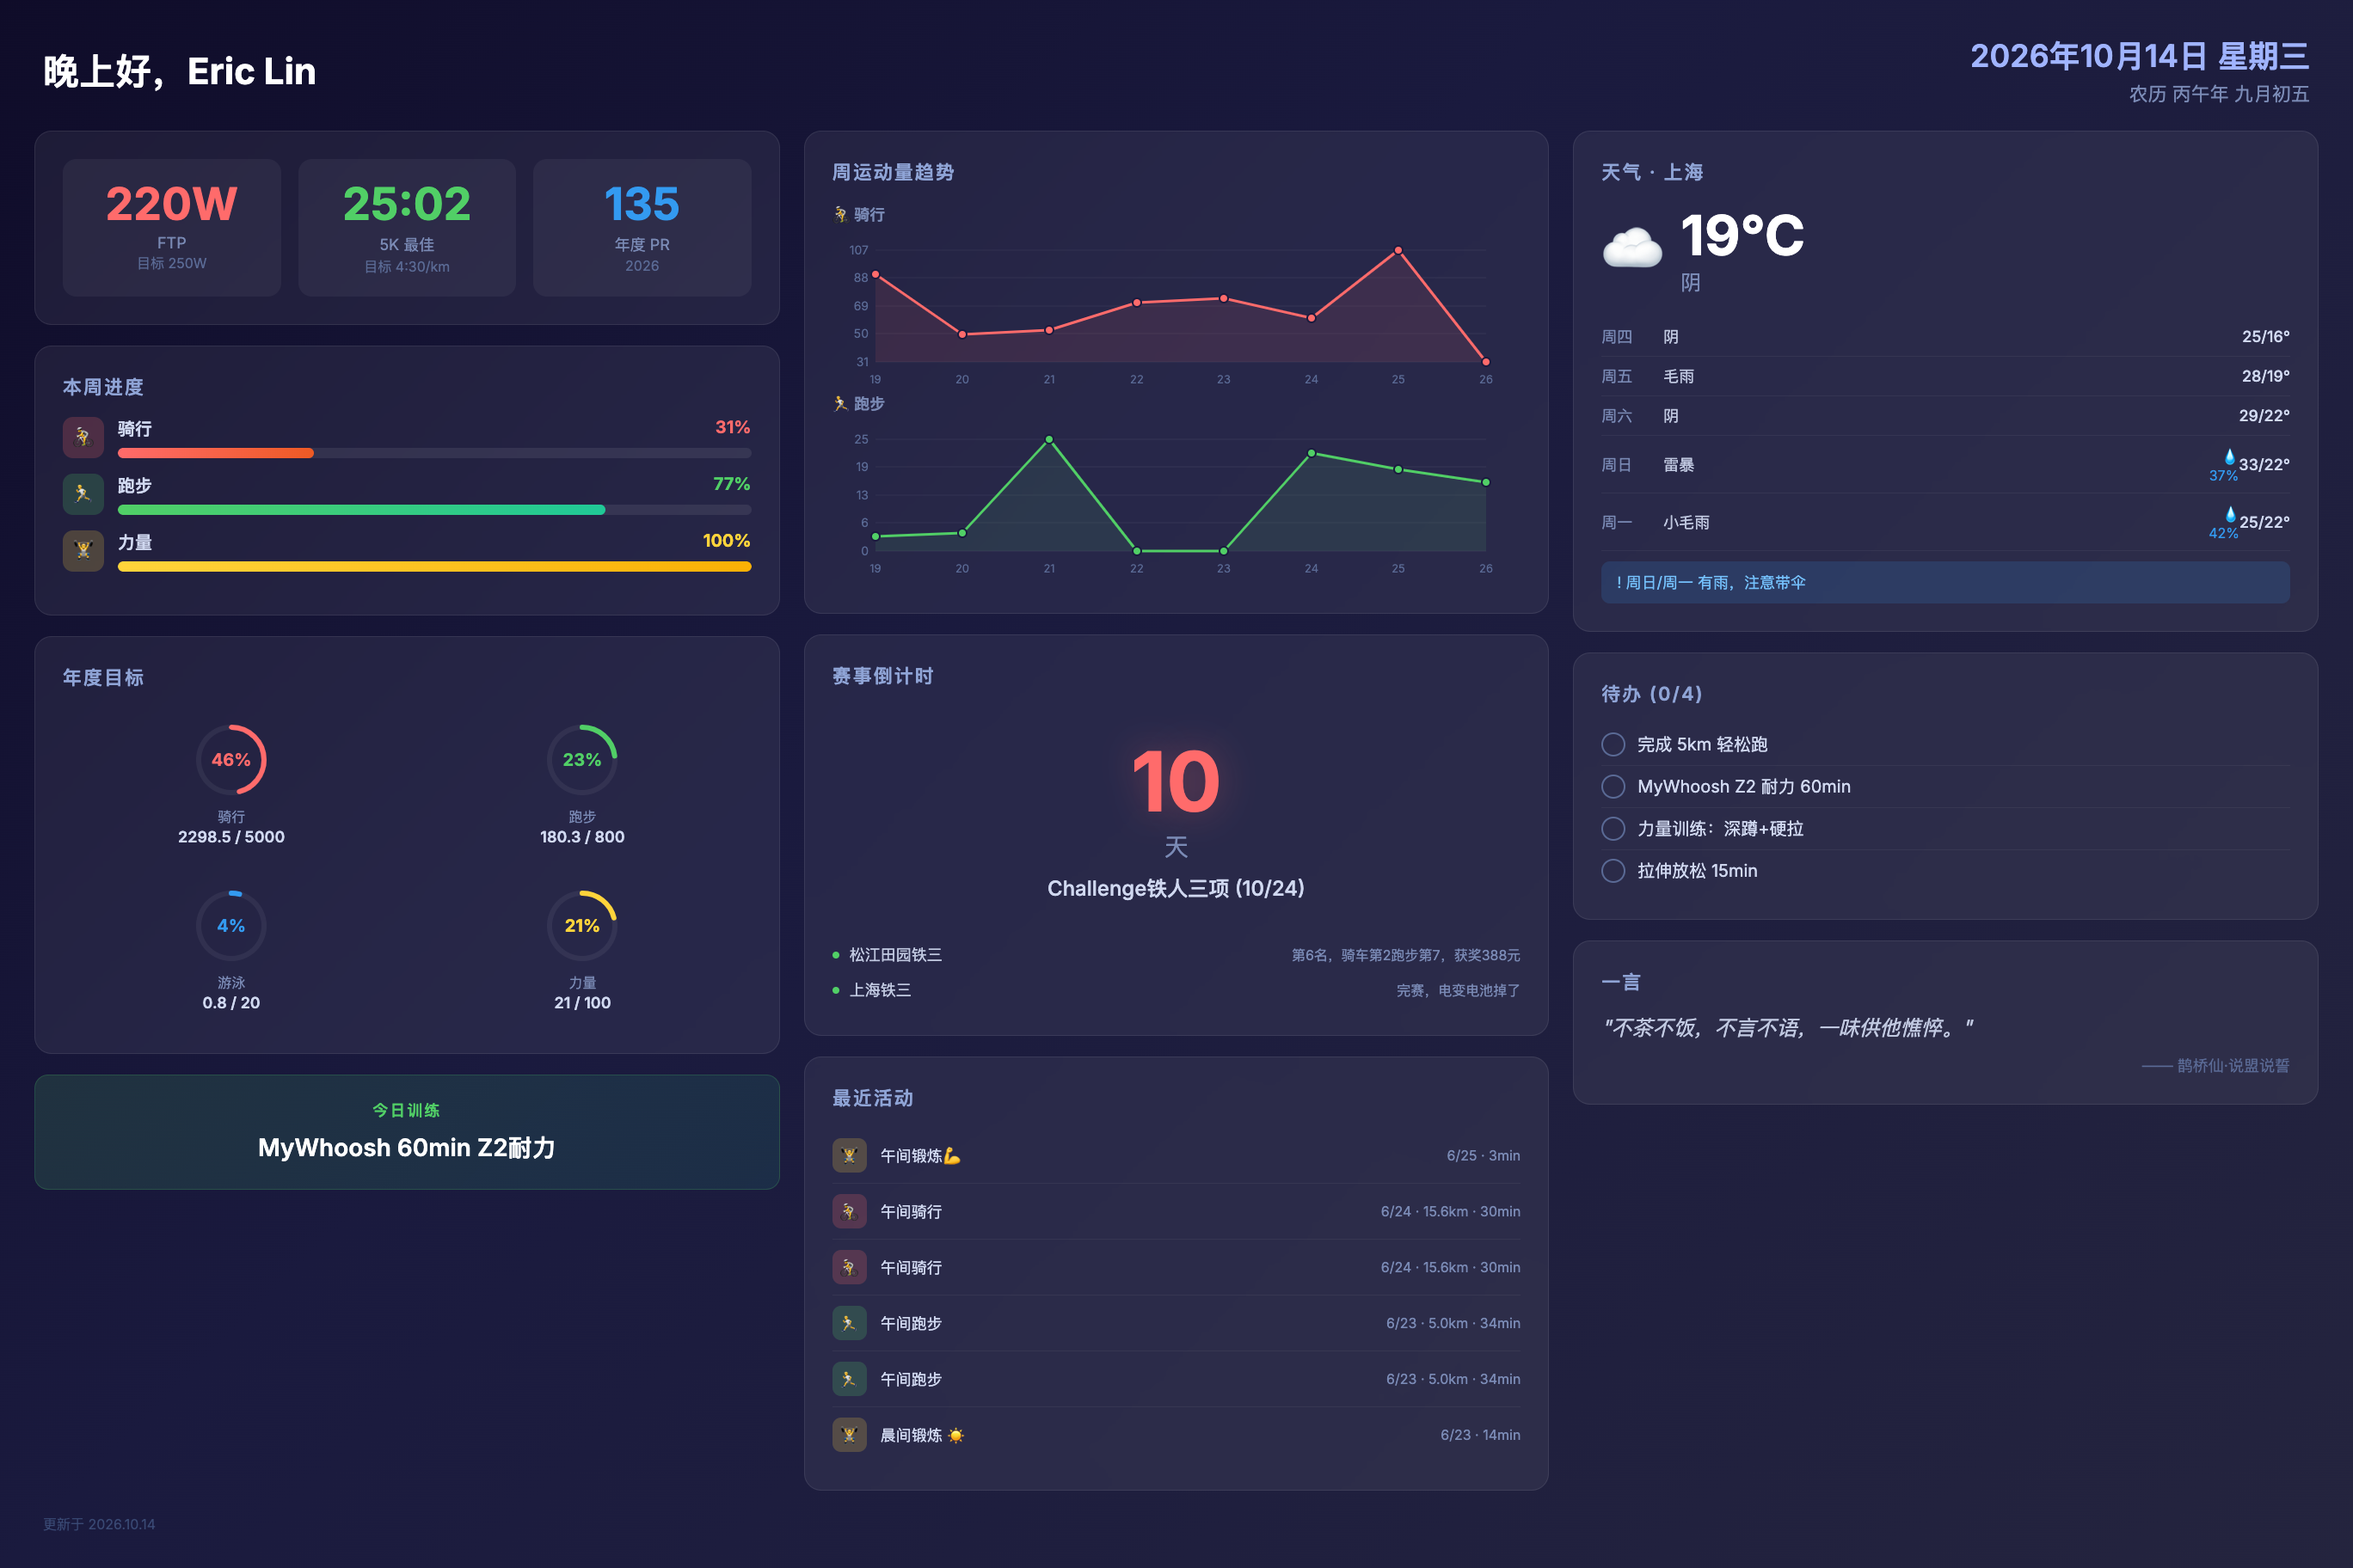
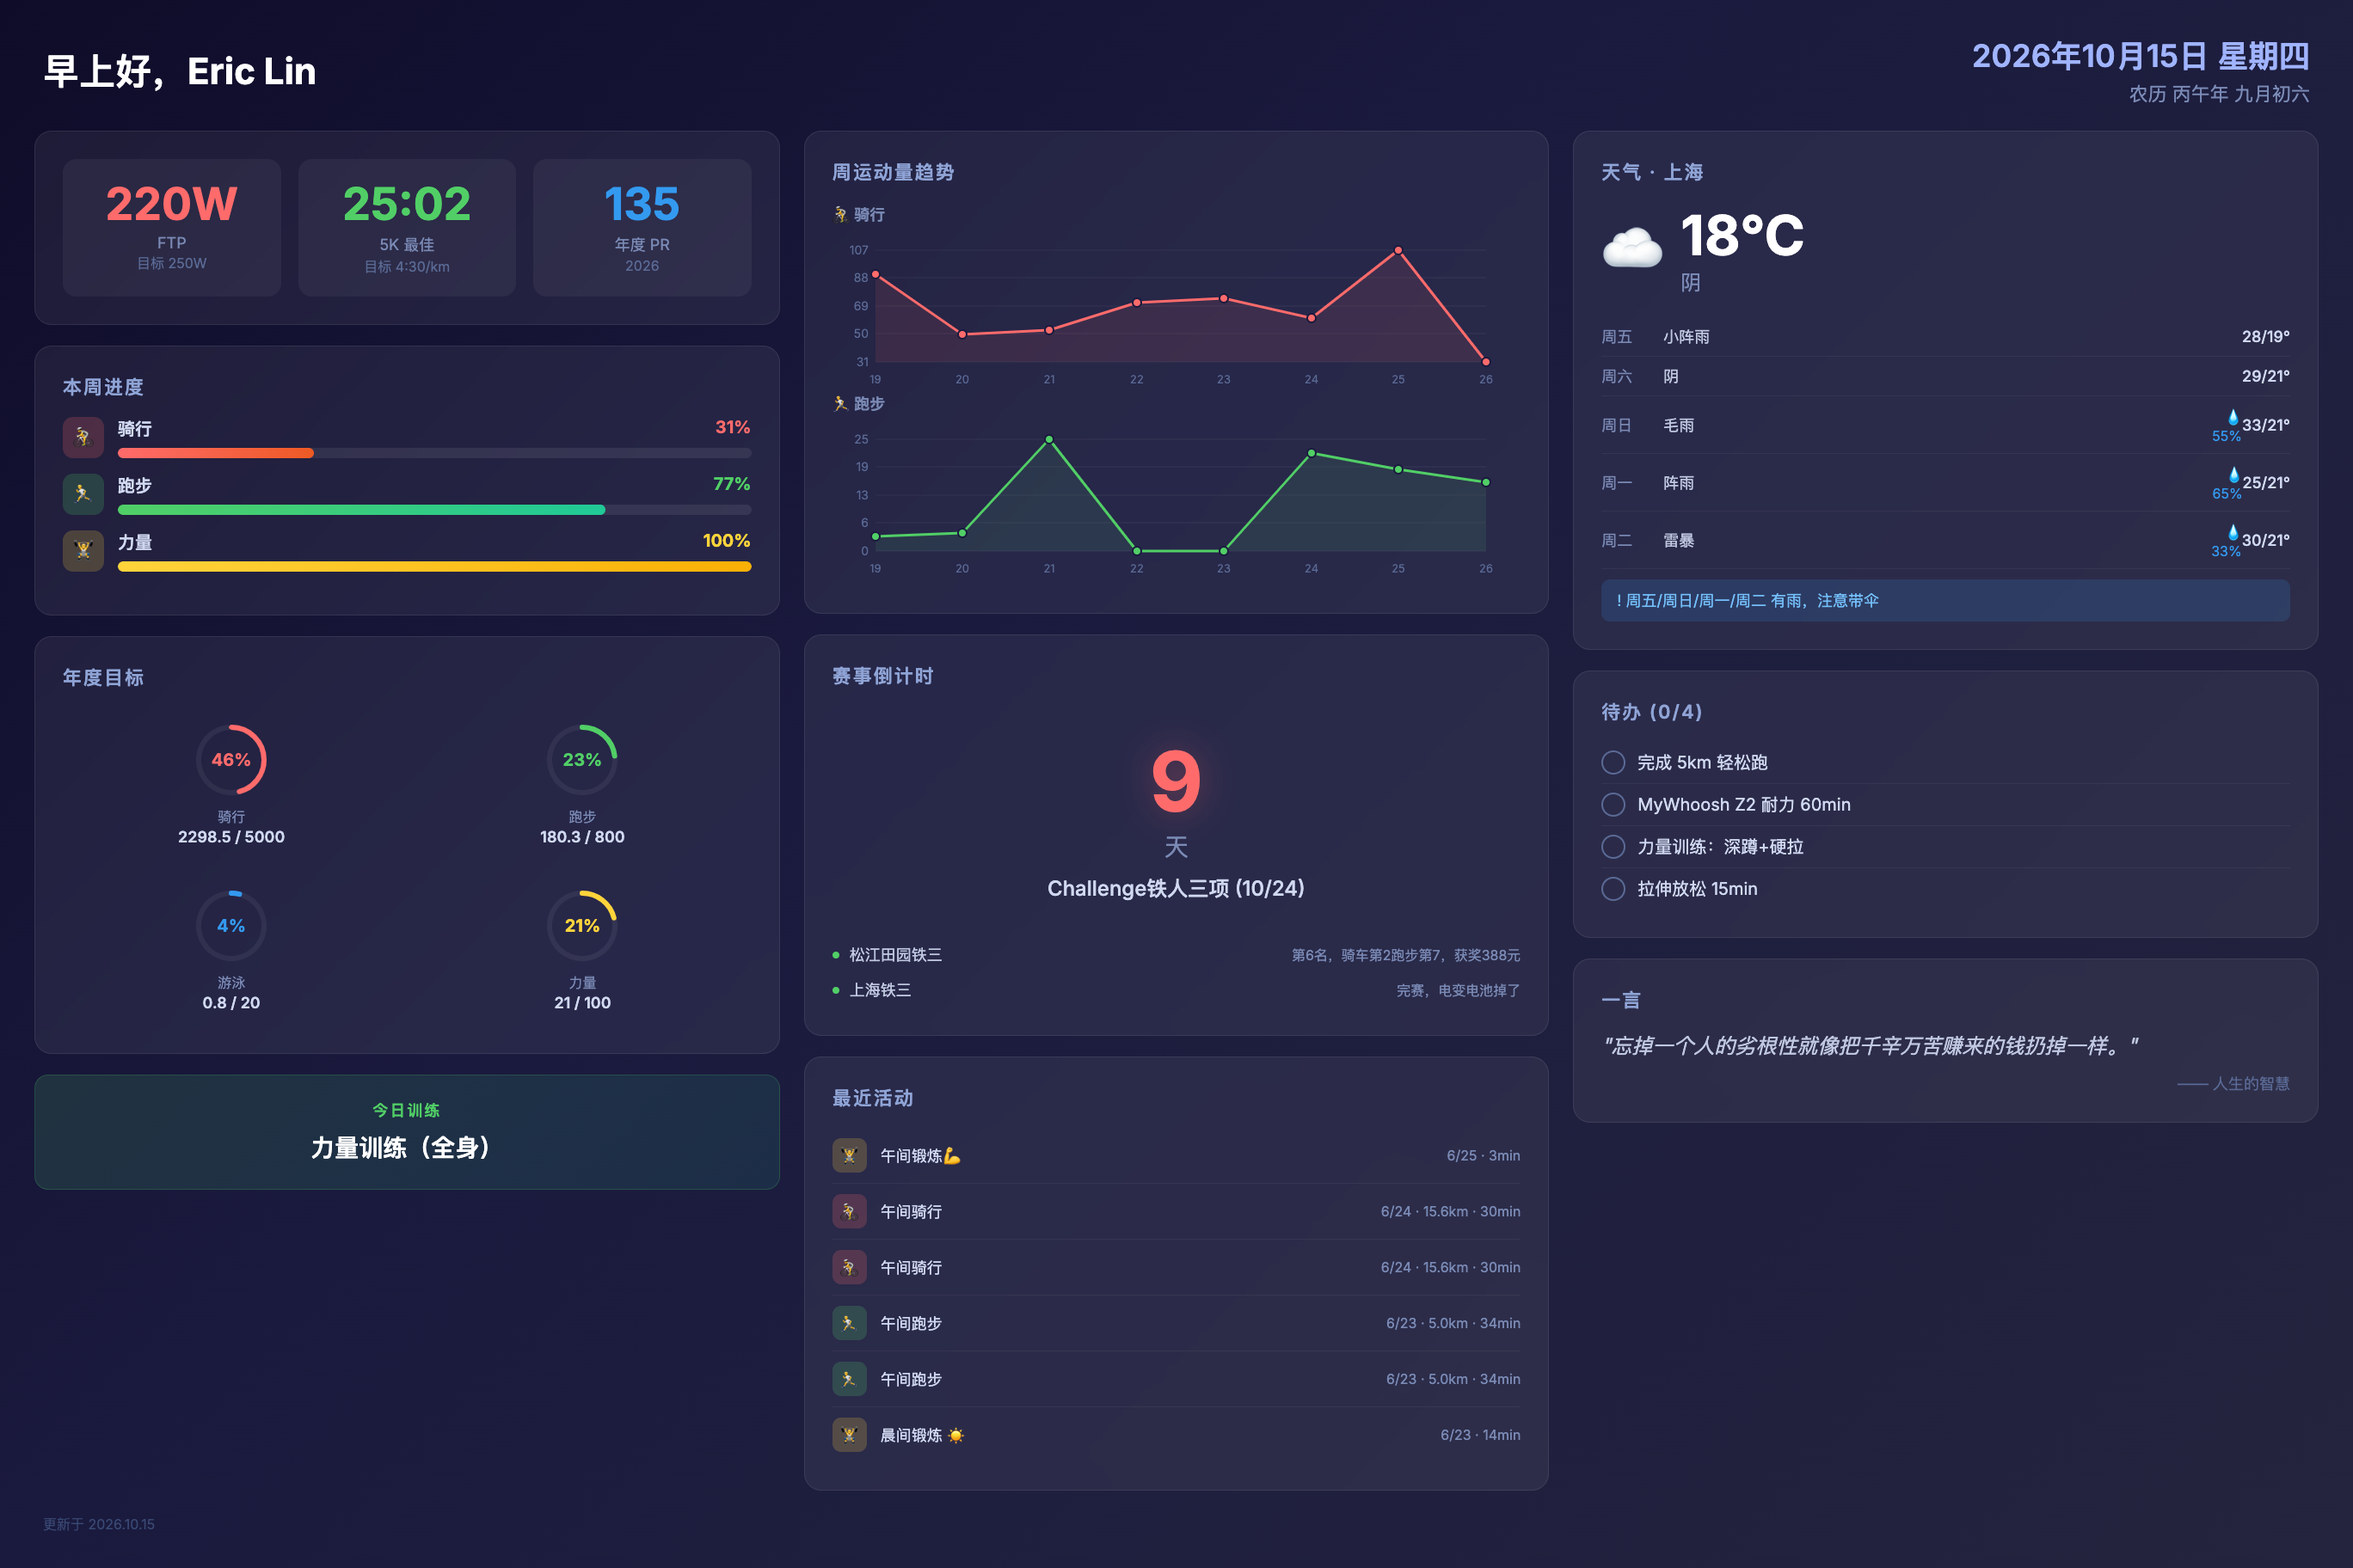
deploy: 2026-10-15-07:00

diff --git a/screensaver.html b/screensaver.html
@@ -490,13 +490,13 @@ html, body {
 <!-- ===== TOP BAR ===== -->
 <div class="top-bar">
   <div>
-    <div class="greeting">晚上好，Eric Lin</div>
+    <div class="greeting">早上好，Eric Lin</div>
     
   </div>
   <div class="date-info">
-    <div class="solar-date">2026年10月14日 星期三</div>
+    <div class="solar-date">2026年10月15日 星期四</div>
     
-    <div class="lunar-date">农历 丙午年 九月初五</div>
+    <div class="lunar-date">农历 丙午年 九月初六</div>
     
   </div>
 </div>
@@ -638,7 +638,7 @@ html, body {
   
   <div class="ai-today-card">
     <div class="ai-today-label">今日训练</div>
-    <div class="ai-today-text">MyWhoosh 60min Z2耐力</div>
+    <div class="ai-today-text">力量训练（全身）</div>
   </div>
   
 
@@ -732,7 +732,7 @@ html, body {
   <div class="card">
     <div class="card-title">赛事倒计时</div>
     <div class="race-countdown">
-      <div class="countdown-number">10</div>
+      <div class="countdown-number">9</div>
       <div class="countdown-unit">天</div>
       <div class="countdown-name">Challenge铁人三项 (10/24)</div>
     </div>
@@ -810,22 +810,15 @@ html, body {
     <div class="weather-current">
       <div class="weather-icon-big">☁</div>
       <div>
-        <div class="weather-temp-big">19°C</div>
+        <div class="weather-temp-big">18°C</div>
         <div class="weather-desc">阴</div>
       </div>
     </div>
     
     
     <div class="forecast-row">
-      <div class="forecast-day">周四</div>
-      <div class="forecast-desc">阴</div>
-      <div class="forecast-precip"></div>
-      <div class="forecast-range">25/16°</div>
-    </div>
-    
-    <div class="forecast-row">
       <div class="forecast-day">周五</div>
-      <div class="forecast-desc">毛雨</div>
+      <div class="forecast-desc">小阵雨</div>
       <div class="forecast-precip"></div>
       <div class="forecast-range">28/19°</div>
     </div>
@@ -834,26 +827,33 @@ html, body {
       <div class="forecast-day">周六</div>
       <div class="forecast-desc">阴</div>
       <div class="forecast-precip"></div>
-      <div class="forecast-range">29/22°</div>
+      <div class="forecast-range">29/21°</div>
     </div>
     
     <div class="forecast-row">
       <div class="forecast-day">周日</div>
-      <div class="forecast-desc">雷暴</div>
-      <div class="forecast-precip">💧37%</div>
-      <div class="forecast-range">33/22°</div>
+      <div class="forecast-desc">毛雨</div>
+      <div class="forecast-precip">💧55%</div>
+      <div class="forecast-range">33/21°</div>
     </div>
     
     <div class="forecast-row">
       <div class="forecast-day">周一</div>
-      <div class="forecast-desc">小毛雨</div>
-      <div class="forecast-precip">💧42%</div>
-      <div class="forecast-range">25/22°</div>
+      <div class="forecast-desc">阵雨</div>
+      <div class="forecast-precip">💧65%</div>
+      <div class="forecast-range">25/21°</div>
+    </div>
+    
+    <div class="forecast-row">
+      <div class="forecast-day">周二</div>
+      <div class="forecast-desc">雷暴</div>
+      <div class="forecast-precip">💧33%</div>
+      <div class="forecast-range">30/21°</div>
     </div>
     
     
     
-    <div class="rain-alert">! 周日/周一 有雨，注意带伞</div>
+    <div class="rain-alert">! 周五/周日/周一/周二 有雨，注意带伞</div>
     
   </div>
   
@@ -902,9 +902,9 @@ html, body {
   
   <div class="card">
     <div class="card-title">一言</div>
-    <div class="quote-text">"不茶不饭，不言不语，一味供他憔悴。"</div>
+    <div class="quote-text">"忘掉一个人的劣根性就像把千辛万苦赚来的钱扔掉一样。"</div>
     
-    <div class="quote-from">—— 鹊桥仙·说盟说誓</div>
+    <div class="quote-from">—— 人生的智慧</div>
     
   </div>
   
@@ -913,7 +913,7 @@ html, body {
 
 <!-- ===== BOTTOM BAR ===== -->
 <div class="bottom-bar">
-  <div class="update-time">更新于 2026.10.14</div>
+  <div class="update-time">更新于 2026.10.15</div>
 </div>
 
 </div>

diff --git a/life.html b/life.html
@@ -89,7 +89,7 @@ html, body {
 <table class="header-table">
   <tr>
     <td class="header-left">生活</td>
-    <td class="header-right">2026.10.14</td>
+    <td class="header-right">2026.10.15</td>
   </tr>
 </table>
 
@@ -138,7 +138,7 @@ html, body {
   <table class="weather-table">
     <tr>
       <td class="weather-icon">~</td>
-      <td class="weather-temp">19°C</td>
+      <td class="weather-temp">18°C</td>
       <td class="weather-desc">阴</td>
     </tr>
   </table>
@@ -146,16 +146,9 @@ html, body {
   <table class="forecast-table">
     
     <tr>
-      <td class="forecast-day">周四</td>
-      <td class="forecast-icon">~</td>
-      <td>阴</td>
-      <td class="forecast-range">25/16°C</td>
-    </tr>
-    
-    <tr>
       <td class="forecast-day">周五</td>
       <td class="forecast-icon">.</td>
-      <td>毛雨</td>
+      <td>小阵雨</td>
       <td class="forecast-range">28/19°C</td>
     </tr>
     
@@ -163,27 +156,27 @@ html, body {
       <td class="forecast-day">周六</td>
       <td class="forecast-icon">~</td>
       <td>阴</td>
-      <td class="forecast-range">29/22°C</td>
+      <td class="forecast-range">29/21°C</td>
     </tr>
     
     <tr>
       <td class="forecast-day">周日</td>
-      <td class="forecast-icon">!</td>
-      <td>雷暴</td>
-      <td class="forecast-range">33/22°C</td>
+      <td class="forecast-icon">.</td>
+      <td>毛雨</td>
+      <td class="forecast-range">33/21°C</td>
     </tr>
     
     <tr>
       <td class="forecast-day">周一</td>
-      <td class="forecast-icon">.</td>
-      <td>小毛雨</td>
-      <td class="forecast-range">25/22°C</td>
+      <td class="forecast-icon">|</td>
+      <td>阵雨</td>
+      <td class="forecast-range">25/21°C</td>
     </tr>
     
     <tr>
       <td class="forecast-day">周二</td>
-      <td class="forecast-icon">.</td>
-      <td>毛雨</td>
+      <td class="forecast-icon">!</td>
+      <td>雷暴</td>
       <td class="forecast-range">30/21°C</td>
     </tr>
     
@@ -191,13 +184,20 @@ html, body {
       <td class="forecast-day">周三</td>
       <td class="forecast-icon">.</td>
       <td>小毛雨</td>
-      <td class="forecast-range">23/12°C</td>
+      <td class="forecast-range">24/13°C</td>
+    </tr>
+    
+    <tr>
+      <td class="forecast-day">周四</td>
+      <td class="forecast-icon">~</td>
+      <td>多云</td>
+      <td class="forecast-range">20/12°C</td>
     </tr>
     
   </table>
   
   
-  <div class="rain-alert">! 周日/周一 有雨，注意带伞</div>
+  <div class="rain-alert">! 周五/周日/周一/周二 有雨，注意带伞</div>
   
 </div>
 
@@ -207,10 +207,10 @@ html, body {
   <p class="section-title">📅 今日</p>
   <table class="data-table">
     <tr>
-      <td>2026年10月14日 星期二</td>
+      <td>2026年10月15日 星期三</td>
     </tr>
     <tr>
-      <td>农历丙午年 九月初五</td>
+      <td>农历丙午年 九月初六</td>
     </tr>
   </table>
 </div>
@@ -261,9 +261,9 @@ html, body {
 
 <div class="box">
   <p class="section-title">💬 一言</p>
-  <p class="quote-text">不茶不饭，不言不语，一味供他憔悴。</p>
+  <p class="quote-text">忘掉一个人的劣根性就像把千辛万苦赚来的钱扔掉一样。</p>
   
-  <p class="quote-from">—— 鹊桥仙·说盟说誓</p>
+  <p class="quote-from">—— 人生的智慧</p>
   
 </div>
 

diff --git a/index.html b/index.html
@@ -74,7 +74,7 @@ html, body {
 <table class="header-table">
   <tr>
     <td class="header-left">Eric Lin · 运动</td>
-    <td class="header-right">2026.10.14</td>
+    <td class="header-right">2026.10.15</td>
   </tr>
 </table>
 
@@ -225,17 +225,10 @@ html, body {
 <div class="ai-plan">
   <div class="ai-plan-title">AI 训练建议</div>
   
-  <div class="ai-today">今日: 轻松跑 5km</div>
+  <div class="ai-today">今日: MyWhoosh 间歇 6×3min 高功率</div>
   
   
   <table class="ai-weekly">
-    
-    <tr>
-      <td class="day">周三</td>
-      
-      <td>轻松跑 5km</td>
-      
-    </tr>
     
     <tr>
       <td class="day">周四</td>
@@ -279,6 +272,13 @@ html, body {
       
     </tr>
     
+    <tr>
+      <td class="day">周三</td>
+      
+      <td>轻松跑 5km</td>
+      
+    </tr>
+    
   </table>
   
   
@@ -293,7 +293,7 @@ html, body {
   <p class="section-title">即将到来</p>
   
   <div class="countdown-box">
-    <div class="countdown-days">10</div>
+    <div class="countdown-days">9</div>
     <div class="countdown-label">距 Challenge铁人三项 (10/24)</div>
   </div>
   

diff --git a/work.html b/work.html
@@ -89,7 +89,7 @@ html, body {
 <table class="header-table">
   <tr>
     <td class="header-left">工作</td>
-    <td class="header-right">2026.10.14</td>
+    <td class="header-right">2026.10.15</td>
   </tr>
 </table>
 
